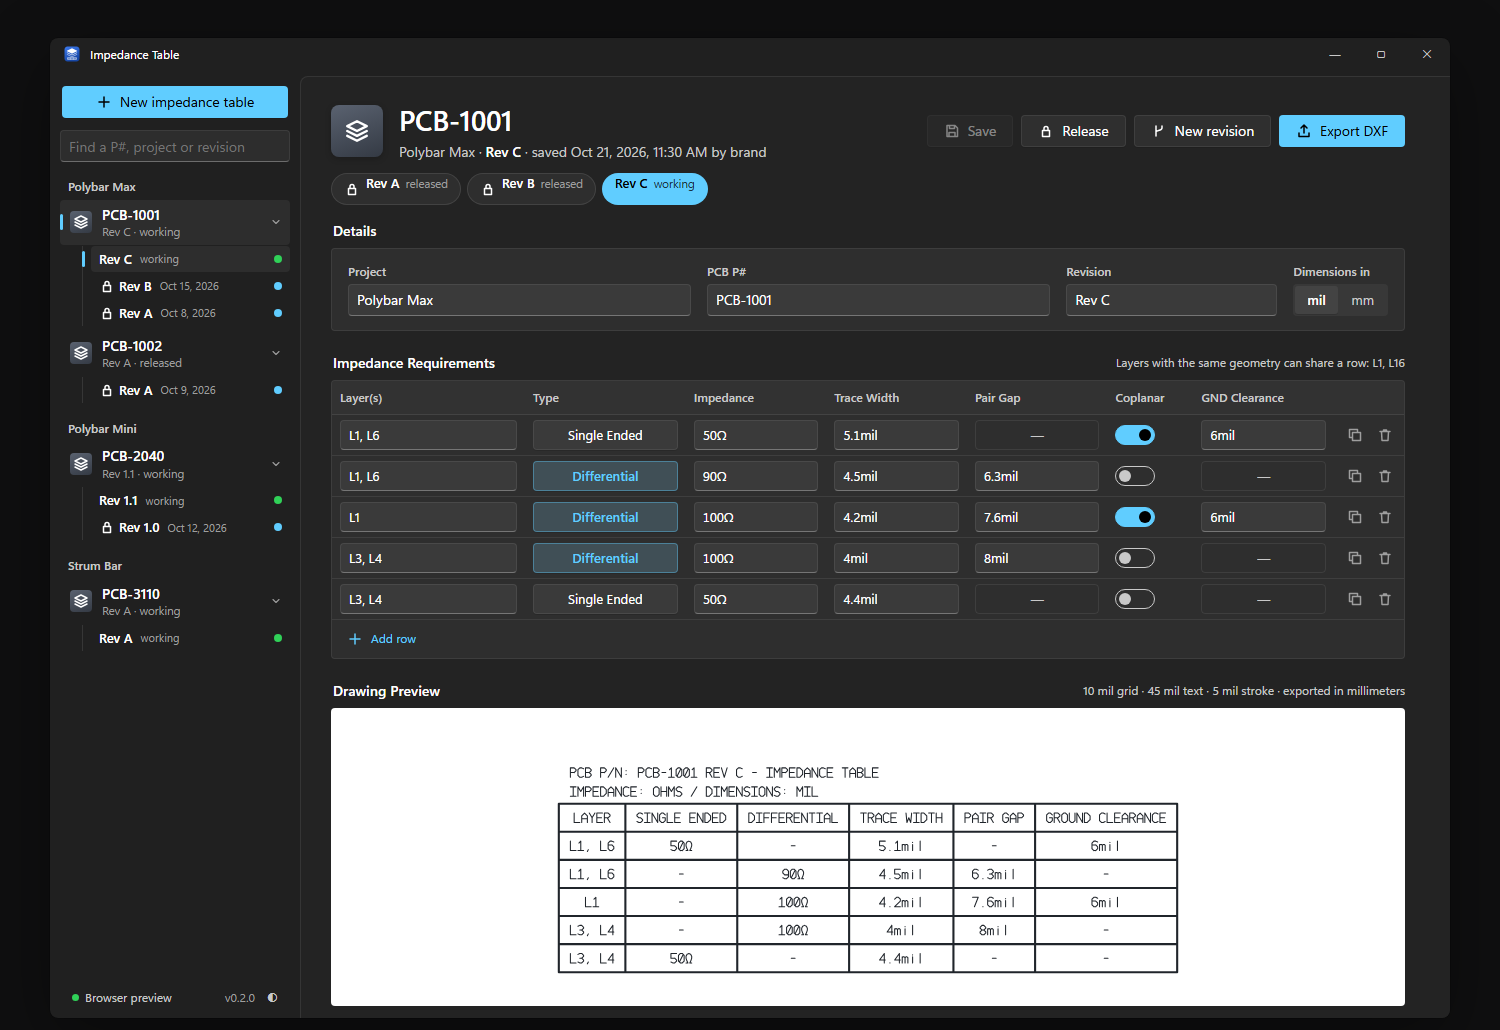
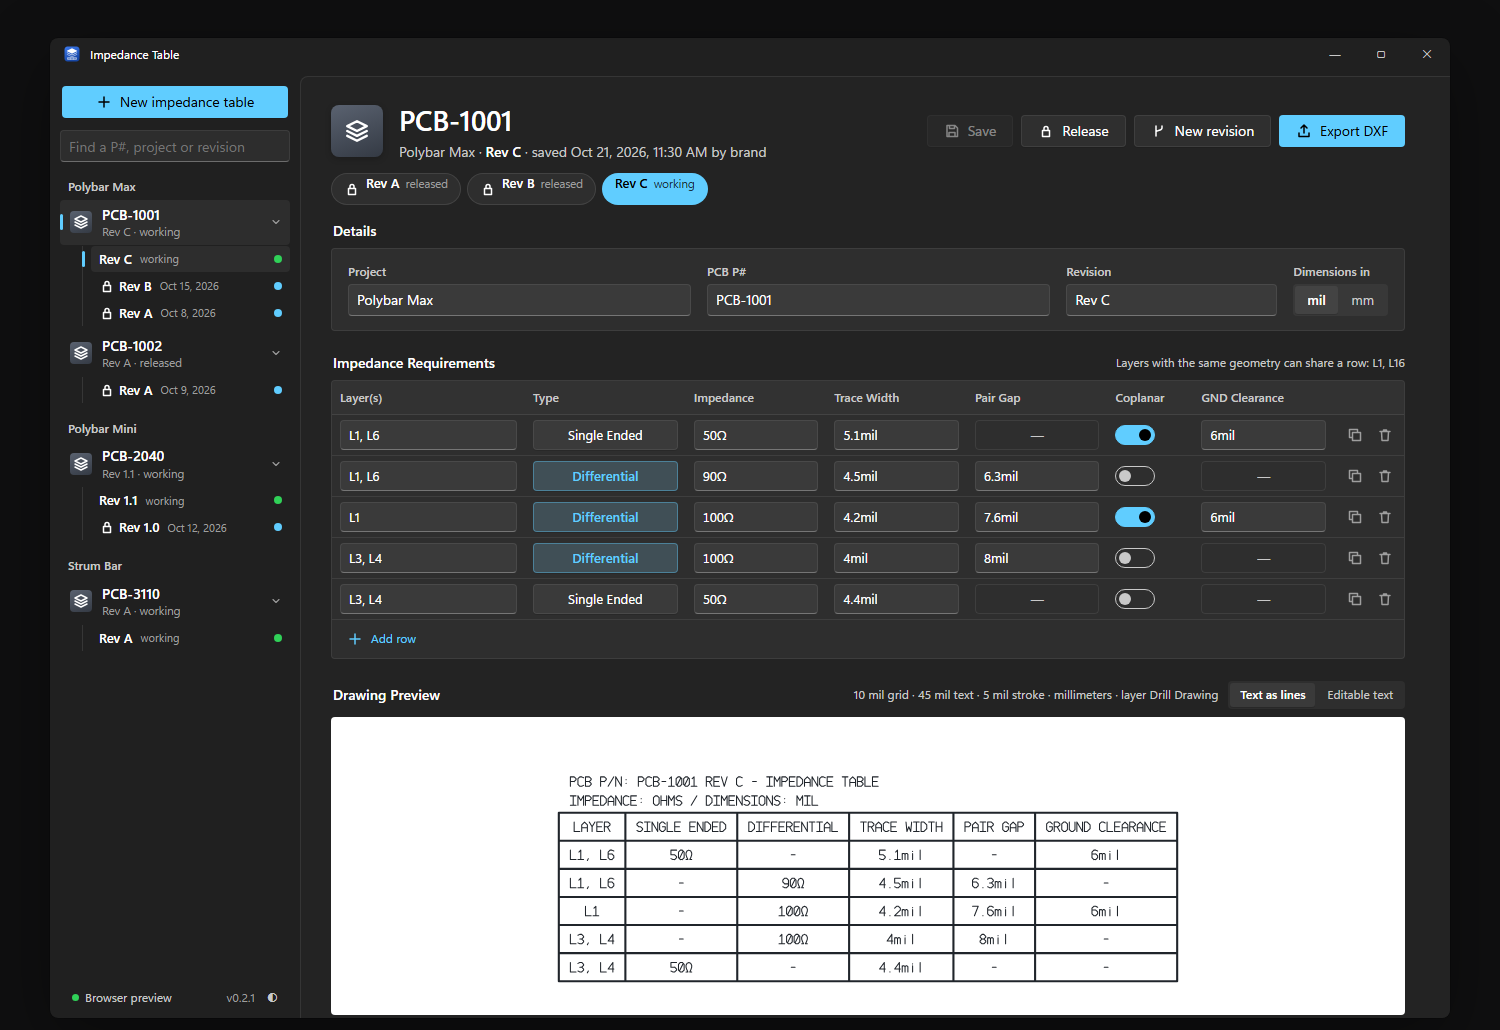
Impedance Table 0.2.1: README and screenshots

Changed region(s): [[0.2147, 0.7456, 0.9507, 0.9942], [0.2147, 0.6524, 0.9507, 0.7146], [0.1533, 0.9631, 0.184, 0.9942]]

diff --git a/README.md b/README.md
@@ -16,7 +16,7 @@ Windows 10 and 11 · 64-bit
   </picture>
 </a>
 
-<sub>Version 0.2.0 · <a href="https://github.com/branggs/Impedance-Chart-Generator-Release/releases">All versions</a></sub>
+<sub>Version 0.2.1 · <a href="https://github.com/branggs/Impedance-Chart-Generator-Release/releases">All versions</a></sub>
 
 <br><br>
 
@@ -31,7 +31,9 @@ Windows 10 and 11 · 64-bit
 
 - **Fill in the requirements, get the table.** Each row is a layer (or several layers that share the same geometry, like `L1, L6`), Single Ended or Differential, the impedance, trace width, pair gap, and, for coplanar routing, the clearance to ground. Values that don't apply become dashes by themselves.
 - **See the drawing as you type.** The preview underneath is the exported drawing: 10 mil grid, 45 mil text with a 5 mil stroke, the PCB P# and revision above the table, and units in every cell (`50Ω`, `5mil`).
-- **Export a DXF for Altium.** Import it at **1:1, in millimeters**. The geometry is always in millimeters, even when the table shows mils. The text is drawn as lines, so it looks the same on every PC whatever fonts are installed.
+- **Export a DXF for Altium.** Import it at **1:1, in millimeters**. The geometry is always in millimeters, even when the table shows mils. Everything is on one layer, named **Drill Drawing**. Choose how the text comes out, above the preview:
+  - **Text as lines** (the default): the letters are drawn as lines, so they look exactly like the preview on every PC.
+  - **Editable text**: the letters come in as text you can edit in Altium, drawn in Altium's own font.
 - **Projects, P#s and revisions.** Every table belongs to a project and a PCB P#, and has revisions named the way you already do it (Rev A, Rev 1.0). **Release** a revision and it's locked for good, so you can always go back to exactly what went to the fab. Changes go into a new revision, copied from any earlier one.
 - **Shared with your team through Dropbox.** Point everyone's app at the same Dropbox folder:
   - Each revision is its own file, and a released one is never written again.
@@ -66,6 +68,15 @@ Windows 10 and 11 · 64-bit
 **Units:** pick **mil** or **mm** under Dimensions; switching converts what's already entered. Impedance is always in ohms.
 
 The app formats the values you enter. It doesn't calculate impedance: take the geometry from your stackup calculator or your fab.
+
+## What's new in 0.2.1
+
+- **The preview keeps working while you fill a table in.** Switching on Coplanar (or Differential) before entering the clearance (or gap) no longer hides the preview: the missing value is an empty cell, and what's still needed is listed under the preview, row by row.
+- **A warning before exporting an incomplete table.** Export DXF lists what's missing; **Export anyway** leaves those cells empty. A revision still has to be complete to be released.
+- **One DXF layer, named Drill Drawing**, instead of separate grid and text layers.
+- **Editable text** as an export option (see *Export a DXF for Altium* above).
+
+**Not checked yet:** importing these DXFs into Altium: whether it picks the Drill Drawing layer by itself, keeps the 10 mil / 5 mil line widths, and how it shows editable text (centering, the Ω sign). Please report what you see on the [issues page](https://github.com/branggs/Impedance-Chart-Generator-Release/issues).
 
 ## What's new in 0.2.0
 
